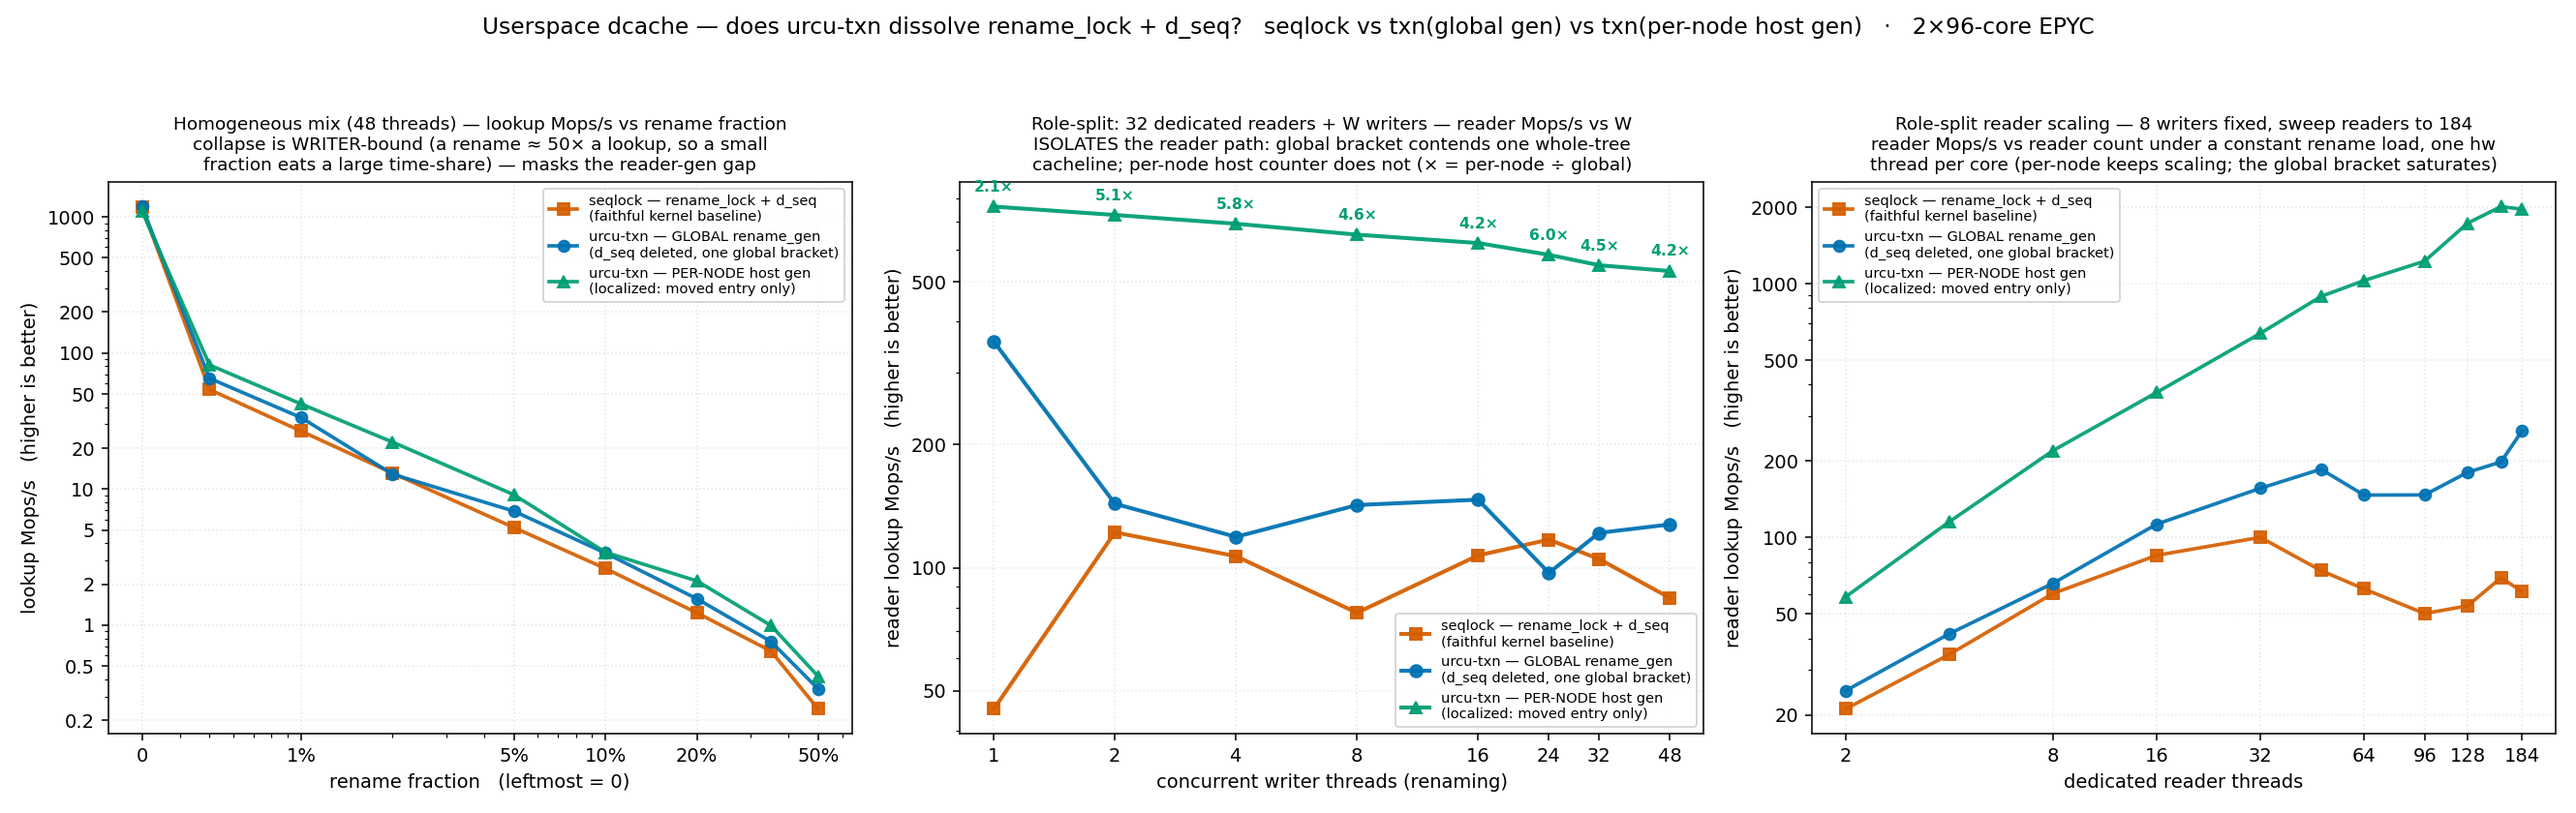
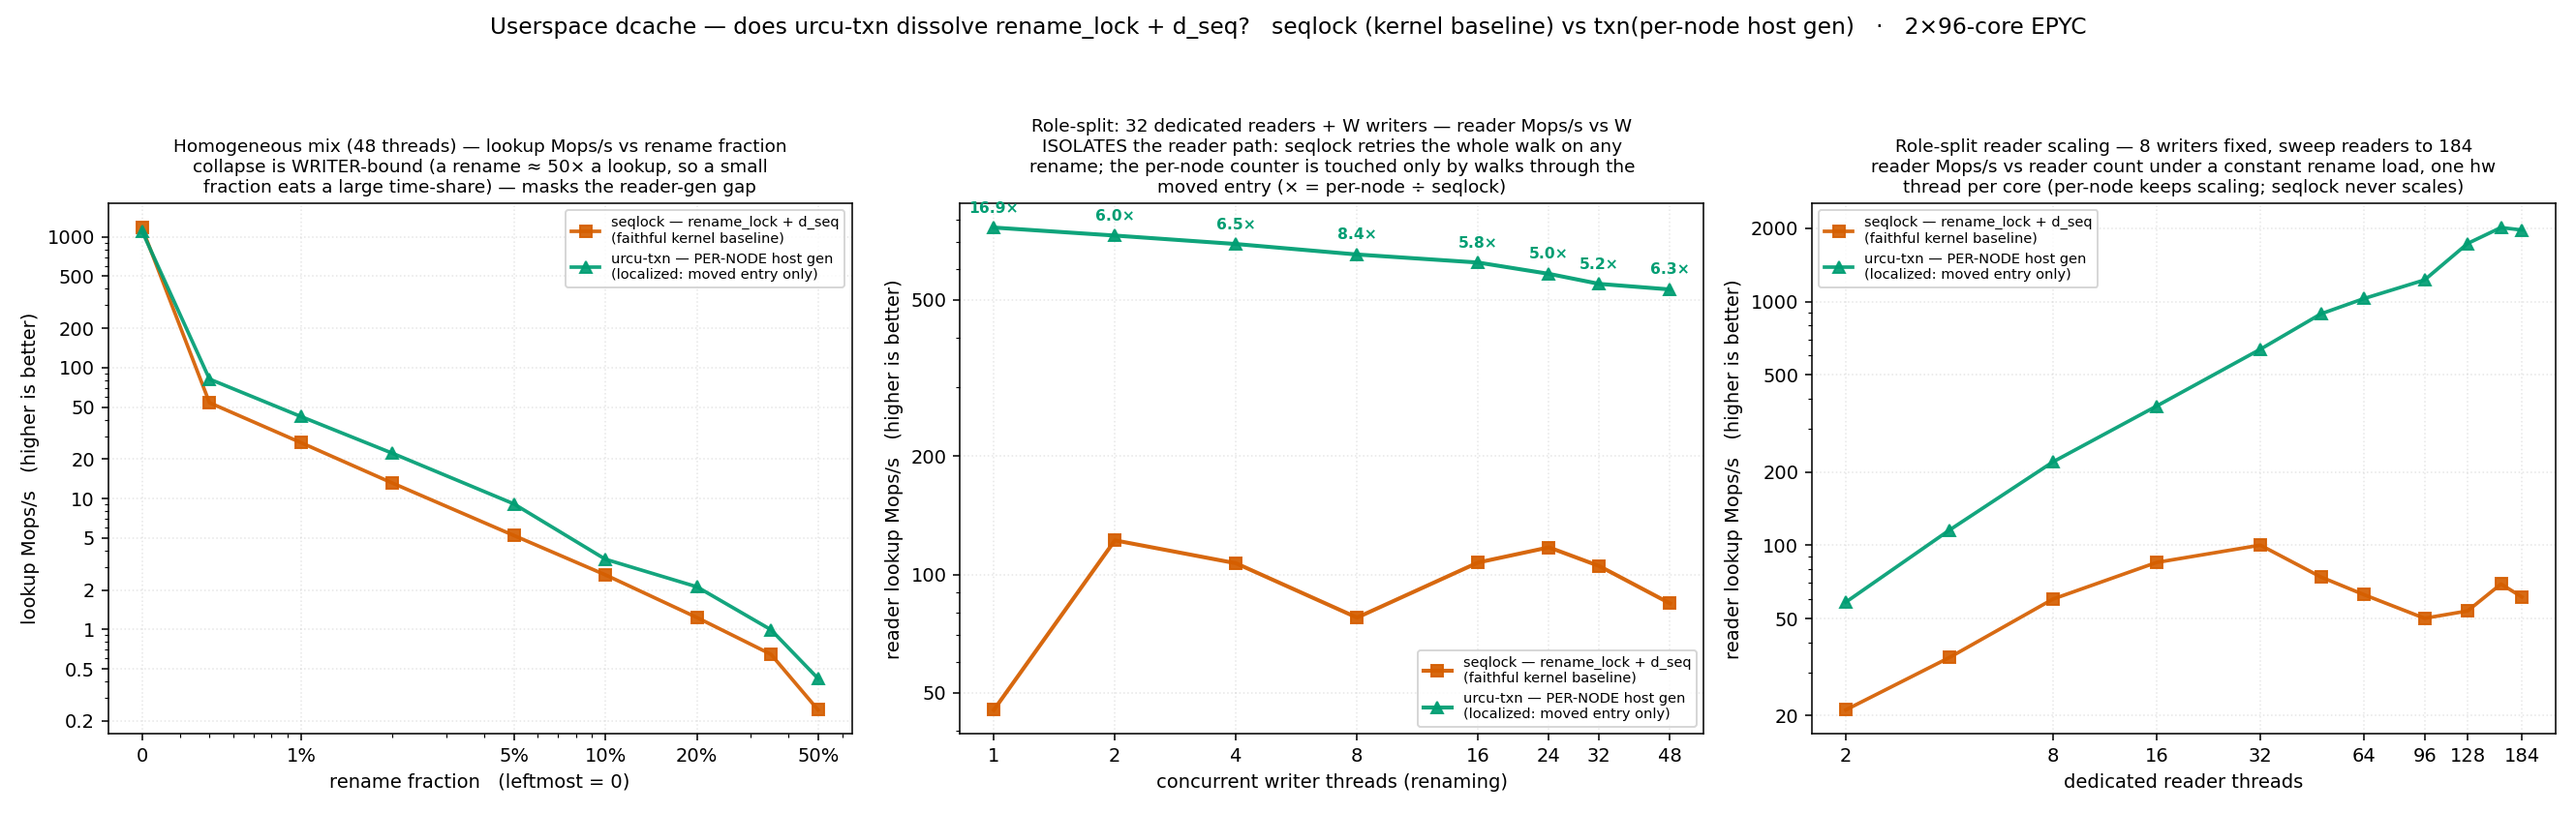
experiments/dcache: plot the S3/readdir figures as baseline-vs-winner two-way
Drop the intermediate txn-global line from both figures so the headline is a
clean kernel-baseline (seqlock / per-dir rwsem) vs urcu-txn per-node
comparison.  The s3 middle-panel ratio annotation is now per-node / seqlock
(the lead over the baseline) rather than per-node / global; titles updated to
match.

The txn-global arm -- the naive port that deletes d_seq but keeps one global
rename_gen and therefore does NOT scale -- stays in the CSV and in the S4 §7
tables/prose, since it is the evidence for why the counter must be per-node.
No re-sweep (data unchanged); figures regenerated from the existing CSV.

diff --git a/scripts/plot_dcache.py b/scripts/plot_dcache.py
@@ -59,7 +59,11 @@ LABEL = {
     "txn-global": "urcu-txn — GLOBAL rename_gen\n(d_seq deleted, one global bracket)",
     "txn-pernode": "urcu-txn — PER-NODE host gen\n(localized: moved entry only)",
 }
-ENGINES = ("seqlock", "txn-global", "txn-pernode")
+# Headline comparison: the faithful kernel baseline vs the winning design.  The
+# txn-global arm (an intermediate A/B showing a naive port that keeps one global
+# counter does NOT scale) stays in the CSV + the §7 prose, but is dropped from the
+# plotted lines to keep the figure a clean two-way.
+ENGINES = ("seqlock", "txn-pernode")
 rows = list(csv.DictReader(open(CSV)))
 
 
@@ -104,10 +108,10 @@ for e in ENGINES:
         continue
     ax2.plot(xs, ys, color=COLOR[e], marker=MARKER[e], lw=2.1, ms=6.5,
              label=LABEL[e], alpha=0.94)
-# annotate the per-node lead over global-txn where both exist
+# annotate the per-node lead over the seqlock baseline where both exist
 for w in sorted(base["txn-pernode"]):
-    if w in base["txn-global"] and base["txn-global"][w] > 0:
-        r = base["txn-pernode"][w] / base["txn-global"][w]
+    if w in base["seqlock"] and base["seqlock"][w] > 0:
+        r = base["txn-pernode"][w] / base["seqlock"][w]
         if r >= 1.15:
             ax2.annotate(f"{r:.1f}×", (w, base["txn-pernode"][w]),
                          textcoords="offset points", xytext=(0, 8),
@@ -117,8 +121,9 @@ if ax2.has_data():
     plain_thread_x(ax2, [1, 2, 4, 8, 16, 24, 32, 48])
     plain_y(ax2)
 ax2.set_title("Role-split: 32 dedicated readers + W writers — reader Mops/s vs W\n"
-              "ISOLATES the reader path: global bracket contends one whole-tree\n"
-              "cacheline; per-node host counter does not (× = per-node ÷ global)",
+              "ISOLATES the reader path: seqlock retries the whole walk on any\n"
+              "rename; the per-node counter is touched only by walks through the\n"
+              "moved entry (× = per-node ÷ seqlock)",
               fontsize=9.5)
 ax2.set_xlabel("concurrent writer threads (renaming)")
 ax2.set_ylabel("reader lookup Mops/s   (higher is better)")
@@ -135,7 +140,7 @@ if ax3.has_data():
     plain_y(ax3)
 ax3.set_title("Role-split reader scaling — 8 writers fixed, sweep readers to 184\n"
               "reader Mops/s vs reader count under a constant rename load, one hw\n"
-              "thread per core (per-node keeps scaling; the global bracket saturates)",
+              "thread per core (per-node keeps scaling; seqlock never scales)",
               fontsize=9.5)
 ax3.set_xlabel("dedicated reader threads")
 ax3.set_ylabel("reader lookup Mops/s   (higher is better)")
@@ -146,7 +151,7 @@ for ax in (ax1, ax2, ax3):
         ax.legend(fontsize=7.5, loc="best")
 
 fig.suptitle("Userspace dcache — does urcu-txn dissolve rename_lock + d_seq?   "
-             "seqlock vs txn(global gen) vs txn(per-node host gen)   ·   2×96-core EPYC",
+             "seqlock (kernel baseline) vs txn(per-node host gen)   ·   2×96-core EPYC",
              fontsize=12)
 fig.tight_layout(rect=[0, 0, 1, 0.94])
 fig.savefig(OUT, dpi=140)

diff --git a/scripts/plot_dcache_readdir.py b/scripts/plot_dcache_readdir.py
@@ -2,20 +2,23 @@
 """
 Directory listing (readdir) under a concurrent rename load -- the S3 companion.
 
-Same three engines as the lookup sweep, but the readers ENUMERATE a directory
-(dc_readdir) instead of doing a full-path leaf lookup:
+Headline two-way (the lookup figure's companion): the faithful kernel baseline
+vs the winning design, readers ENUMERATE a directory (dc_readdir) rather than
+doing a full-path leaf lookup:
 
   seqlock      per-DIRECTORY rwsem readdir (the honest kernel-inode-rwsem
                analogue: readers of a dir share a read-lock, a rename write-locks
                only its affected parents -- NOT one global lock)
-  txn-global   lock-free RCU walk of the MCAS child hlist, GLOBAL rename_gen
   txn-pernode  lock-free RCU walk of the MCAS child hlist, per-node host gen
 
-Key point: readdir reads NO generation counter at all (a concurrently renamed
-child may or may not appear -- POSIX-soft, but it never tears), so txn-global and
-txn-pernode run IDENTICAL readdir code and their curves overlap.  The global-vs-
-per-node axis that decided the lookup path is moot here; the contrast is a lock-
-free RCU walk vs a lock.
+Note: readdir's READER path reads NO generation counter at all (a concurrently
+renamed child may or may not appear -- POSIX-soft, but it never tears), so
+txn-pernode and txn-global run IDENTICAL readdir reader code.  They still differ
+by ~15-25% at scale -- a second-order WRITER-side effect (the global rename_gen
+cacheline the concurrent writers contend), documented in §7.2 -- but txn-global
+is dropped from this plot to keep the headline a clean baseline-vs-winner; it
+stays in the CSV.  The contrast that matters here is the lock-free RCU walk vs the
+per-directory lock.
 
 Data: scripts/dcache_sweep.csv (panels readdir_scale, readdir_w).  2x96 EPYC.
 """
@@ -55,7 +58,7 @@ LABEL = {
     "txn-global": "urcu-txn — GLOBAL rename_gen\n(lock-free RCU child-walk)",
     "txn-pernode": "urcu-txn — PER-NODE host gen\n(lock-free RCU child-walk)",
 }
-ENGINES = ("seqlock", "txn-global", "txn-pernode")
+ENGINES = ("seqlock", "txn-pernode")
 rows = list(csv.DictReader(open(CSV)))
 
 

diff --git a/experiments/dcache/simplification-s4.md b/experiments/dcache/simplification-s4.md
@@ -453,7 +453,12 @@ the S3 sweeps that measure it (full data + method in `rename-shell-transition.md
 `hwloc-calc core:all.pu:0 → --cpulist`, best-of-5, every run gated on namespace
 conservation — **0 failures across 141 rows**). Figures `figures/dcache_s3.png`
 and `figures/dcache_readdir.png` (regenerate with `scripts/run_dcache.sh` →
-`scripts/plot_dcache*.py`); the tables below are the committed anchors.
+`scripts/plot_dcache*.py`); the tables below are the committed anchors. The
+plotted figures are the clean **baseline-vs-winner two-way** (seqlock vs
+per-node); the intermediate **txn-global** arm — a naive port that deletes
+`d_seq` but keeps *one* global `rename_gen` — is dropped from the lines to keep
+the headline uncluttered, but stays in the CSV and in the tables/reading below,
+because it is the evidence for *why* the counter must be per-node (§7.1).
 
 **Measured on the current default** — the true-1-CL split (§5 "Landed",
 `0f4f626`/`706e459`) with `--precomp` on, both applied identically to all three
